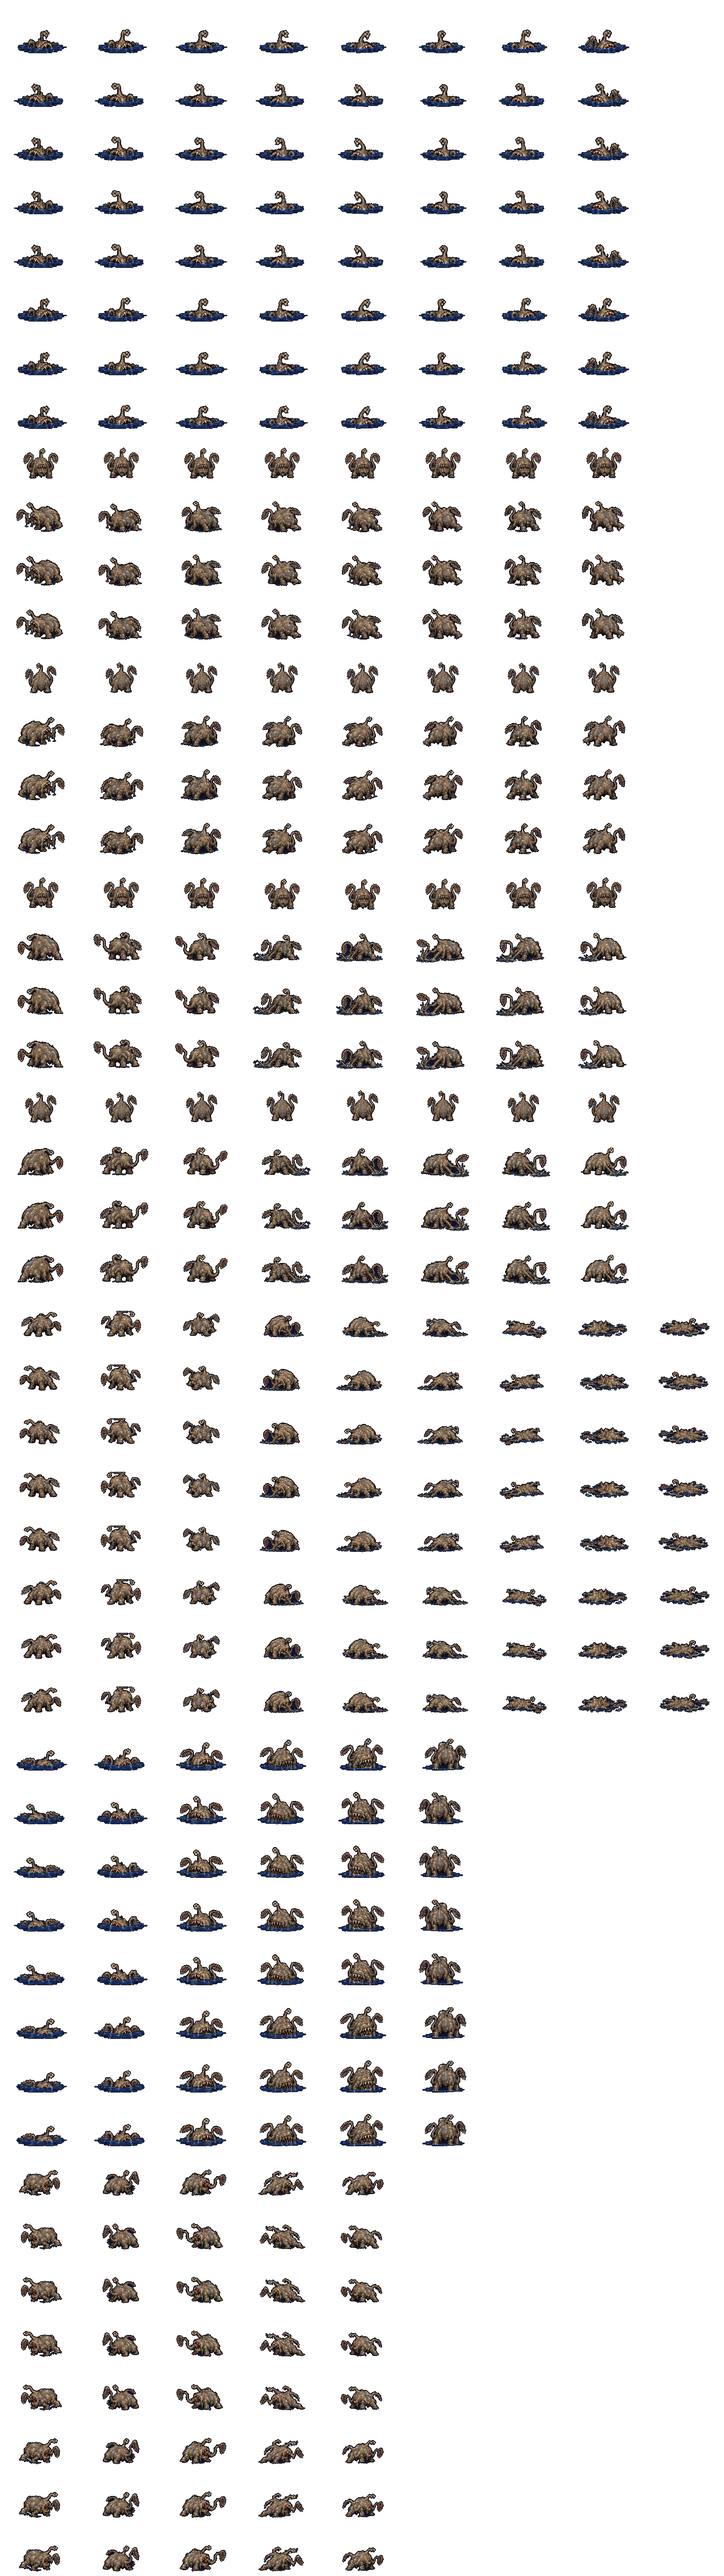
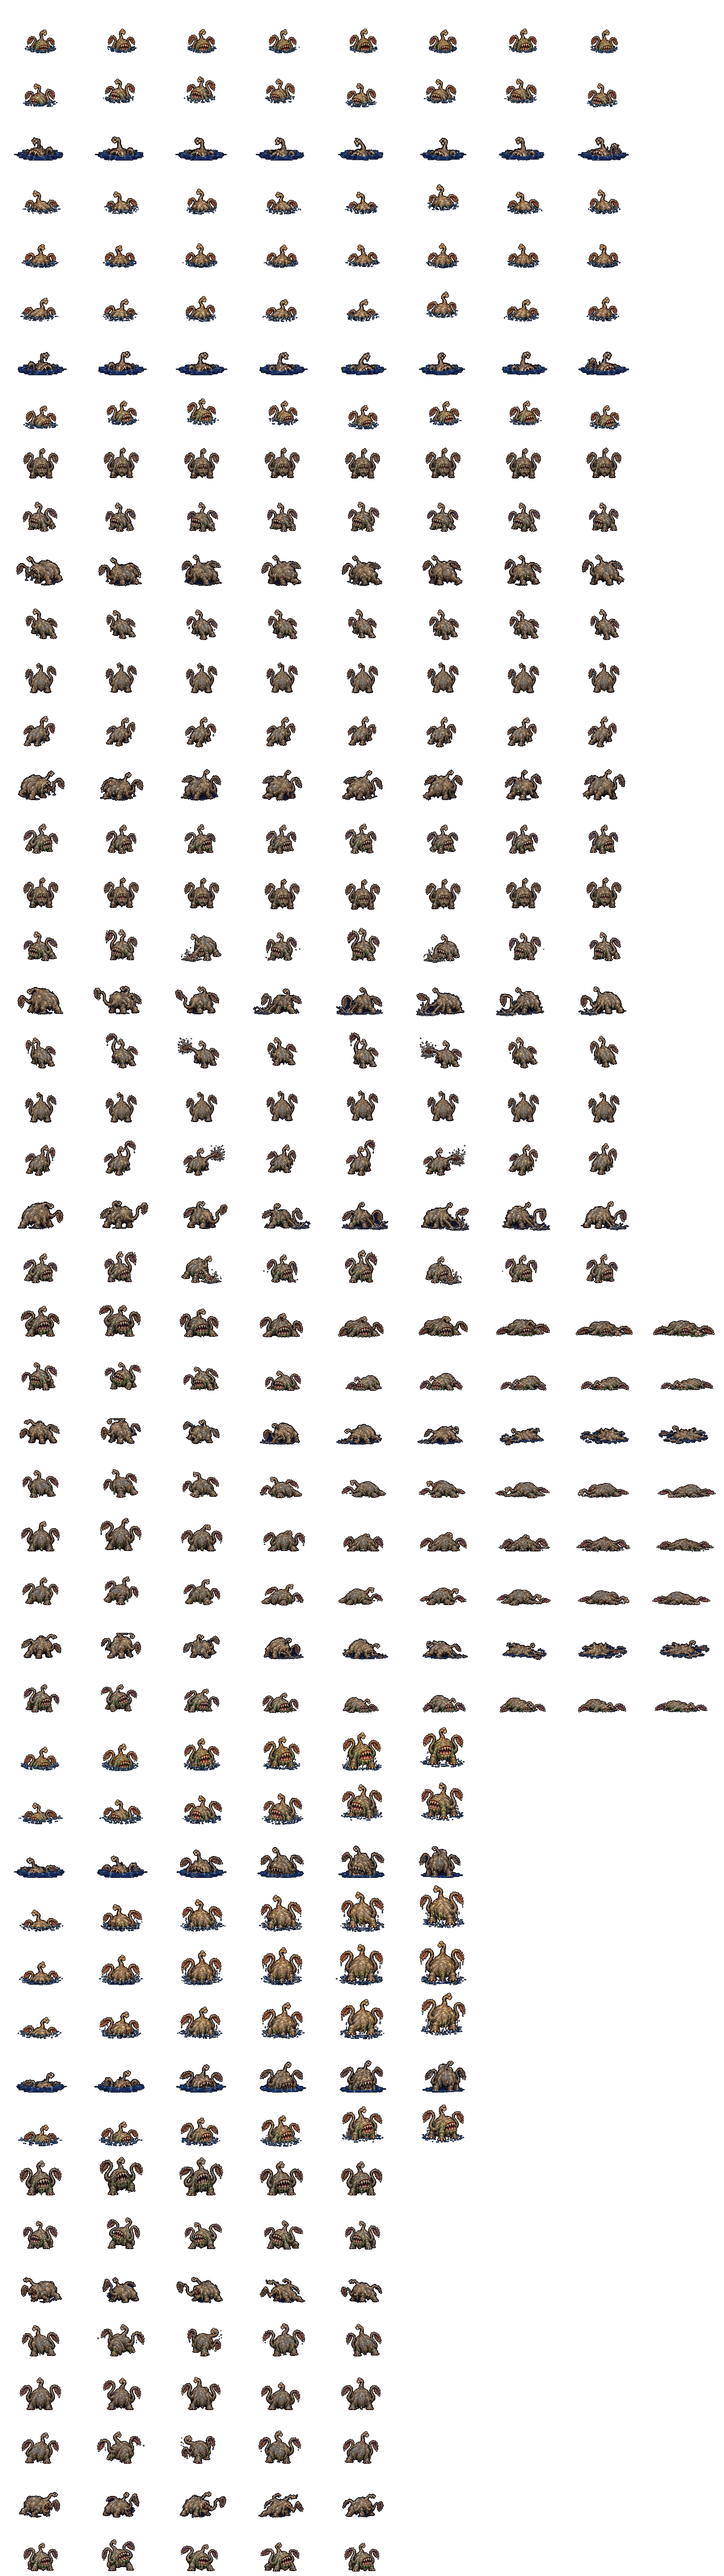
The otyugh in all eight facings: the art desk's ART-47 cut onto otyugh_p2 (SE and NE every row, SW and NW mirrored; S and N their idle, rise, flinch and fall)
tools/otyugh-sheet.py ART47 through tools/artdesk.py, which learns `targets` (a page scaled by a frame of its own to a height of
the sheet's: the pool pages by Idle 1 against Griz's half-sunk idle, the walk pages by Walk 1 and the reaction pages by Fall 1
against the side's and the still's mean -- a half-sunk idle must not set a walk's scale) and `joins` (the Fall wrapped 1-5 then 6-9,
its second line placed with the first and appended: nine frames as his). The pool rows go down by his idle's ripple depth (10 px),
the waterline on the foot as his are; toned per channel to his sheet; the row names boxed at the left margin (a Rise's R rode into
Rise 1 on a tight box). Idle frame 1 stands 52-53 in every facing, Walk 1 67-68. Every kept frame byte for byte. The show bench's
`reveal 0` FAIL is the old sheet's too (the rise plays only in the landlord's intro; proved by a swap).
On Griz's "spin up an one-at-a-time art cutter that goes until we're out" (10-22, to the lanes desk).

diff --git a/deep16/data/sprites.js b/deep16/data/sprites.js
@@ -9822,7 +9822,7 @@
 }
 },
 "otyugh_p2": {
-"image": "art/otyugh_p2.png?v=9297e76c12",
+"image": "art/otyugh_p2.png?v=bd098bcc9c",
 "fw": 180,
 "fh": 120,
 "ax": 90,
@@ -9884,7 +9884,7 @@
 "fps": 12
 }
 },
-"source": "generated by Griz (2026-09-29, one sheet), cut and snapped by tools/otyugh-sheet.py"
+"source": "generated by Griz (2026-09-29, one sheet), cut and snapped by tools/otyugh-sheet.py; SE and NE every row and S and N their idle, rise, flinch and fall drawn by the art desk (ART-47, 10-22)"
 },
 "owl_p2": {
 "image": "art/owl_p2.png?v=dfd7ee3664",

diff --git a/deep16/index.html b/deep16/index.html
@@ -77,7 +77,7 @@
 <script src="js/art.js?v=e1ce4cf012"></script>
 <script src="data/cavern.js?v=647c1a184a"></script>
 <script src="data/maps.js?v=971b4fe9e6"></script>
-<script src="data/sprites.js?v=c94a88f924"></script>
+<script src="data/sprites.js?v=268df914fc"></script>
 <script src="js/sprites.js?v=132505c283"></script>
 <script src="js/save.js?v=1191d6f29a"></script>
 <script src="data/spells.js?v=b819b6e987"></script>

diff --git a/tools/otyugh-sheet.py b/tools/otyugh-sheet.py
@@ -31,7 +31,10 @@ import importlib.util
 spec = importlib.util.spec_from_file_location('pix', os.path.join(ROOT, 'tools', 'pixelate.py'))
 pix = importlib.util.module_from_spec(spec); spec.loader.exec_module(pix)
 
-SRC = os.path.join(ROOT, 'deep16', '_src')
+spec = importlib.util.spec_from_file_location('artdesk', os.path.join(ROOT, 'tools', 'artdesk.py'))
+AD = importlib.util.module_from_spec(spec); spec.loader.exec_module(AD)
+
+SRC = AD.src_dir(ROOT)                                  # (his sheet lives in the main checkout: a worktree reads it there)
 NAME = 'otyugh_p2'
 FW, FH, AX, AY = 180, 120, 90, 108
 HEIGHT = 66                 # the Walk row's figure, in px (the chuul_p2, also Large: 63)
@@ -96,6 +99,50 @@ def frames_in(band, n, maxw=190, blank=()):
         img = np.pad(img, ((PAD, PAD), (PAD, PAD), (0, 0)))
         out.append({'img': Image.fromarray(img, 'RGBA'), 'oy': y0 + ys.min() - PAD, 'bottom': y0 + ys.max(), 'h': int(ys.max() - ys.min() + 1)})
     return out
+
+
+# The five views (10-22, the monster cutter seat's second run): the art desk's ART-47 in deep16/_src/otyugh/ART-47/ (sorted out of Fresh
+# by _src/art-desk/sort-delivery.py; its papers in _src/art-desk/received-2026-10-22-ART-47-otyugh-FINAL-SHEETS/): HEAD 1 SE and HEAD 2 NE
+# on three pages each (Idle 8, Rise 6 -- in its pool; Walk 8, Tentacle Slam 8; Flinch 5, Fall 9 wrapped 1-5 then 6-9), HEAD 3 S and HEAD 5
+# N their Idle and Rise, Flinch and Fall. Cut and placed by tools/artdesk.py, each page scaled by a frame of its own to this sheet's (targets:
+# a half-sunk idle must not set a walk's scale) -- the pool pages by Idle 1 against the side's half-sunk idle, the walk pages by Walk 1 and
+# the reaction pages by Fall 1 against the side's and the still's mean (S and N against the still) -- toned to Griz's sheet, the Fall's
+# second line joined to its first. The pool rows go down by the side idle's ripple depth, so the waterline is on the foot as his are. The
+# row names boxed by hand at the left (the ripples' highlights read as letters). SE and SW, NE and NW take every row; S and N their idle,
+# reveal, flinch and hurt (his stills keep their walk bob and slam dip, as the art desk's brief says). Rise -> reveal, Tentacle Slam ->
+# attack, Fall -> hurt.
+ART47 = {
+  'H1P1': dict(file='ART-47_HEAD-1_PAGE-1.png', W=1536, text=[(20, 245, 159, 281), (10, 532, 159, 569)],
+               rows=[('idle', (0, 0, 1536, 476), (451, 476), 8), ('reveal', (0, 477, 1536, 790), (767, 790), 6)]),
+  'H1P2': dict(file='ART-47_HEAD-1_PAGE-2.png', W=1536, text=[(16, 227, 158, 261), (12, 562, 262, 596)],
+               rows=[('walk', (0, 0, 1536, 479), (457, 479), 8), ('attack', (0, 480, 1536, 829), (808, 829), 8)]),
+  'H1P3': dict(file='ART-47_HEAD-1_PAGE-3.png', W=1536, text=[(21, 86, 179, 121), (21, 409, 246, 443), (21, 725, 250, 758)],
+               rows=[('flinch', (0, 0, 1536, 369), (345, 369), 5), ('hurt', (0, 370, 1536, 687), (663, 687), 5), ('hurt2', (0, 688, 1536, 955), (931, 955), 4)]),
+  'H2P1': dict(file='ART-47_HEAD-2_PAGE-1.png', W=1536, text=[(20, 244, 160, 281), (10, 545, 160, 582)],
+               rows=[('idle', (0, 0, 1536, 474), (450, 474), 8), ('reveal', (0, 475, 1536, 813), (788, 813), 6)]),
+  'H2P2': dict(file='ART-47_HEAD-2_PAGE-2.png', W=1536, text=[(16, 220, 159, 256), (15, 550, 278, 586)],
+               rows=[('walk', (0, 0, 1536, 467), (444, 467), 8), ('attack', (0, 468, 1536, 811), (787, 811), 8)]),
+  'H2P3': dict(file='ART-47_HEAD-2_PAGE-3.png', W=1536, text=[(21, 99, 188, 136), (21, 419, 268, 457), (21, 727, 261, 764)],
+               rows=[('flinch', (0, 0, 1536, 376), (352, 376), 5), ('hurt', (0, 377, 1536, 688), (663, 688), 5), ('hurt2', (0, 689, 1536, 937), (913, 937), 4)]),
+  'H3P1': dict(file='ART-47_HEAD-3_PAGE-1.png', W=1536, text=[(19, 240, 161, 278), (10, 536, 164, 573)],
+               rows=[('idle', (0, 0, 1536, 477), (454, 477), 8), ('reveal', (0, 478, 1536, 811), (788, 811), 6)]),
+  'H3P2': dict(file='ART-47_HEAD-3_PAGE-2.png', W=1536, text=[(24, 97, 209, 135), (24, 433, 281, 470), (24, 734, 286, 771)],
+               rows=[('flinch', (0, 0, 1536, 403), (377, 403), 5), ('hurt', (0, 404, 1536, 715), (687, 715), 5), ('hurt2', (0, 716, 1536, 973), (948, 973), 4)]),
+  'H5P1': dict(file='ART-47_HEAD-5_PAGE-1.png', W=1536, text=[(20, 243, 161, 281), (10, 545, 161, 582)],
+               rows=[('idle', (0, 0, 1536, 474), (450, 474), 8), ('reveal', (0, 475, 1536, 830), (806, 830), 6)]),
+  'H5P2': dict(file='ART-47_HEAD-5_PAGE-2.png', W=1536, text=[(26, 74, 217, 114), (26, 401, 282, 439), (26, 732, 282, 770)],
+               rows=[('flinch', (0, 0, 1536, 366), (341, 366), 5), ('hurt', (0, 367, 1536, 689), (664, 689), 5), ('hurt2', (0, 690, 1536, 954), (928, 954), 4)]),
+}
+VIEWS47 = {'SE': ('H1P1', 'H1P2', 'H1P3'), 'NE': ('H2P1', 'H2P2', 'H2P3'), 'S': ('H3P1', 'H3P2'), 'N': ('H5P1', 'H5P2')}
+
+
+def fit47(img, k):
+    """an ART-47 page's cut at game size: premultiplied box down, a 1-px margin for the outline, snapped to the palette"""
+    w, h = img.size
+    img = img.convert('RGBa').resize((max(1, round(w / k)), max(1, round(h / k))), Image.BOX).convert('RGBA')
+    pad = Image.new('RGBA', (img.width + 2, img.height + 2), (0, 0, 0, 0))
+    pad.paste(img, (1, 1))
+    return pix.pixelate(pad, 1, do_lift=False)
 
 
 def fit(cut, scale):
@@ -183,6 +230,22 @@ def build_frames():
         else:
             frames['idle'].append(idle_l); frames['walk'].append(walk_l); frames['attack'].append(atk_l)
             frames['hurt'].append(death_l); frames['flinch'].append(flinch_l); frames['reveal'].append(rise_l)
+    tl = AD.tall
+    sideS, sideN = (tl(walk_r[0]) + tl(fS)) / 2, (tl(walk_r[0]) + tl(fN)) / 2
+    fallS, fallN = (tl(death_r[0]) + tl(fS)) / 2, (tl(death_r[0]) + tl(fN)) / 2
+    targets = {'H1P1': ('idle', 0, tl(idle_r[0])), 'H1P2': ('walk', 0, sideS), 'H1P3': ('hurt', 0, fallS),
+               'H2P1': ('idle', 0, tl(idle_r[0])), 'H2P2': ('walk', 0, sideN), 'H2P3': ('hurt', 0, fallN),
+               'H3P1': ('idle', 0, tl(idle_r[0])), 'H3P2': ('hurt', 0, tl(fS)), 'H5P1': ('idle', 0, tl(idle_r[0])), 'H5P2': ('hurt', 0, tl(fN))}
+    d47 = AD.views(ROOT, 'otyugh', 'ART-47', ART47, VIEWS47, {'side': tl(walk_r[0]), 'S': tl(fS), 'N': tl(fN)}, fit47, torso_x,
+                   (FW, FH, AX, AY), tone_ref={'side': walk_r[0], 'S': fS, 'N': fN}, targets=targets, joins={'hurt2': 'hurt'})   # ART-47 (10-22)
+    deep = int(np.where(idle_r[0][..., 3].any(axis=1))[0][-1]) - AY        # the side idle's ripples below its waterline (the foot)
+    for v in d47:
+        for an in ('idle', 'reveal'):
+            if an in d47[v]:
+                d47[v][an] = [np.roll(fr, deep, axis=0) if not fr[FH - deep:, :, 3].any() else fr for fr in d47[v][an]]
+    for f, v, flip in ((7, 'SE', False), (1, 'SE', True), (5, 'NE', False), (3, 'NE', True), (0, 'S', False), (4, 'N', False)):
+        for a, fs in d47[v].items():
+            frames[a][f] = mirror(fs) if flip else fs
     return frames, scale
 
 
@@ -225,7 +288,8 @@ def build():
     meta = json.load(open(mp))
     for a, fps in (('idle', 5), ('walk', 8), ('attack', 10), ('hurt', 8), ('flinch', 12), ('reveal', 6)):
         meta['anims'][a]['fps'] = fps
-    meta['source'] = 'generated by Griz (2026-09-29, one sheet), cut and snapped by tools/otyugh-sheet.py'
+    meta['source'] = ('generated by Griz (2026-09-29, one sheet), cut and snapped by tools/otyugh-sheet.py; SE and NE every row and S and '
+                      'N their idle, rise, flinch and fall drawn by the art desk (ART-47, 10-22)')
     json.dump(meta, open(mp, 'w'), indent=1)
     print('  scale %.3f (walk row %.1f px source -> %d px)' % (scale, scale * HEIGHT, HEIGHT))
 

diff --git a/tools/artdesk.py b/tools/artdesk.py
@@ -154,15 +154,24 @@ def stamp_shadow(fr, cx, cy, rx, ry, colour):
 
 
 def views(root, sub, art, pages, view_pages, idle_h, fit, torso_x, cell, chan=None, fix=None, tone_ref=None, cuts=None, stand_of=None,
-          shadows=None, shadow_rgb=None):
+          shadows=None, shadow_rgb=None, targets=None, joins=None):
     """tone_ref: the sheet's own frames to tone each page to (see `tones`), or None to cut the pages' colour as drawn; fix and cuts:
     sheetrows' own, a page at a time ({L: {row: [...]}}: a loose part's box and its frame, a line cleared where two frames touch); stand_of:
     see `scales`; shadows: {row: (frame indices)} -- each such frame's ground shadow measured off its page (`page_shadow`) and drawn under it
-    in shadow_rgb, the way a cutter draws its own leap's (fit is taken to pad its cut by one px, as every cutter's does)"""
+    in shadow_rgb, the way a cutter draws its own leap's (fit is taken to pad its cut by one px, as every cutter's does); targets: {L:
+    (row, index, height)} -- that page scaled so that frame stands that tall, in place of the rule in `scales` (the otyugh's: a half-sunk
+    idle must not set its walk's scale); joins: {row2: row} -- a row wrapped onto a second line of the page (the otyugh's Fall, 1-5 then
+    6-9), placed against the first line's anchor and appended to it"""
     FW, FH, AX, AY = cell
     lines = cuts
     cuts = cut(root, sub, art, pages, chan, fix, lines)          # (the cut lines in, the cut frames out)
     K = scales(cuts, view_pages, idle_h, fit, stand_of)
+    for L, (r, i, hgt) in (targets or {}).items():
+        lo, hi = 1.0, 20.0
+        for _ in range(26):
+            k = (lo + hi) / 2
+            lo, hi = (k, hi) if tall(fit(cuts[L][r][i][0], k)) > hgt else (lo, k)
+        K[L] = (lo + hi) / 2
     pg = {}
     if shadows:
         SR = _sheetrows(root)
@@ -173,7 +182,7 @@ def views(root, sub, art, pages, view_pages, idle_h, fit, torso_x, cell, chan=No
     print('  %s K: ' % art + ', '.join('%s %.2f' % (L, K[L]) for L in pages) +
           '; the sheet stands %.0f side-on, %.0f from the front, %.0f from behind' % (idle_h['side'], idle_h['S'], idle_h['N']))
     T = tones(cuts, view_pages, K, fit, tone_ref, stand_of) if tone_ref else {}
-    out, lost = {}, []
+    out, lost, anchor = {}, [], {}
     for v, ls in view_pages.items():
         out[v] = {}
         for L in ls:
@@ -181,10 +190,13 @@ def views(root, sub, art, pages, view_pages, idle_h, fit, torso_x, cell, chan=No
             for an, frs in cuts[L].items():
                 fits = [fit(toned(im, T[L]) if L in T else im, k) for im, _, _ in frs]
                 rel = [((box[0] - x) / k, box[3] / k) for _, box, x in frs]     # (each frame's left against its number, its foot on the row's ground)
-                tx = torso_x(fits[0])
+                tx, rx0 = torso_x(fits[0]), rel[0][0]
+                if an in (joins or {}) and (L, joins[an]) in anchor:       # a second line: the first line's anchor, its own ground
+                    tx, rx0 = anchor[(L, joins[an])]
+                anchor[(L, an)] = (tx, rx0)
                 row = []
                 for a, (rx, rb) in zip(fits, rel):
-                    ox = int(round(AX - tx + (rx - rel[0][0])))
+                    ox = int(round(AX - tx + (rx - rx0)))
                     oy = int(round(AY + (rb - rel[0][1]))) - int(np.where(a[..., 3].any(axis=1))[0][-1])
                     fr = np.zeros((FH, FW, 4), dtype=np.uint8)
                     h, w = a.shape[:2]
@@ -206,6 +218,9 @@ def views(root, sub, art, pages, view_pages, idle_h, fit, torso_x, cell, chan=No
                             print('  %s %s %d: no shadow found on the page' % (L, an, i + 1))
                     row.append(fr)
                 out[v][an] = row
+        for an2, an in (joins or {}).items():
+            if an2 in out[v]:
+                out[v][an] = out[v].get(an, []) + out[v].pop(an2)
     if lost:
         raise SystemExit('%s cut off at the cell edge (%d x %d, anchor %d,%d): ' % (art, FW, FH, AX, AY) + '; '.join(lost))
     return out
